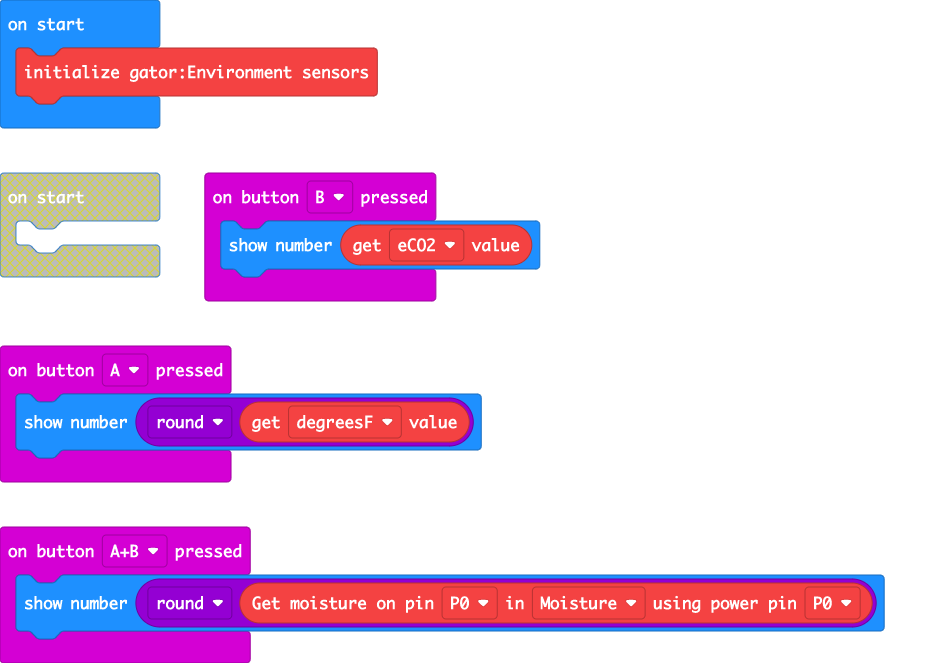
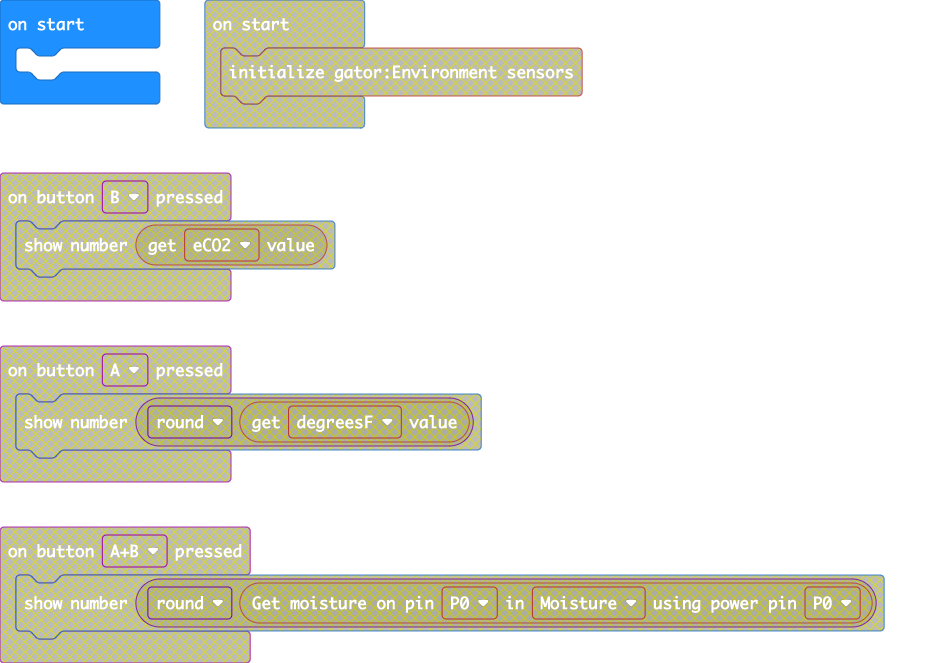
Update main.blocks, sensorstutorialv1.md

diff --git a/sensorstutorialv1.md b/sensorstutorialv1.md
@@ -31,7 +31,7 @@ gatorEnvironment.beginEnvironment()
 
 ## Step 4: Display the soil moisture values
 
-Display the ``||gatorSoil:get moisture||`` value while ``||input:button A+B is pressed||`` using the soil moisture sensor. ``||math:Round||`` the value if necessary. You should have the signal come from pin P0 and the power from pin P1.
+Display the ``||gatorSoil:get moisture||`` value while ``||input:button A+B is pressed||`` using the soil moisture sensor. ``||math:Round||`` the value if necessary. You should have the signal come from pin P0 and the power from pin P1. When you check the soil moisture, water the plant by setting ``||pins:digital write||`` pin on pin 2 to 1. This will turn on the water pump. ``||basic:Pause||`` for 5 seconds then set the pin back to 0.
 
 ```blocks
 input.onButtonPressed(Button.A, function () {
@@ -39,6 +39,9 @@ input.onButtonPressed(Button.A, function () {
 })
 input.onButtonPressed(Button.AB, function () {
     basic.showNumber(Math.round(gatorSoil.moisture(AnalogPin.P0, GatorSoilType.Moisture, DigitalPin.P1)))
+    pins.digitalWritePin(DigitalPin.P2, 1)
+    basic.pause(500)
+    pins.digitalWritePin(DigitalPin.P2, 0)
 })
 input.onButtonPressed(Button.B, function () {
     basic.showNumber(gatorEnvironment.getMeasurement(measurementType.eCO2))
